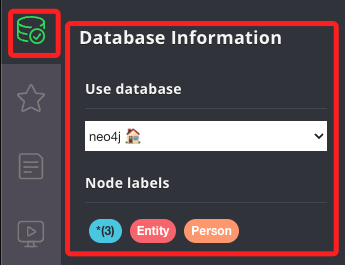
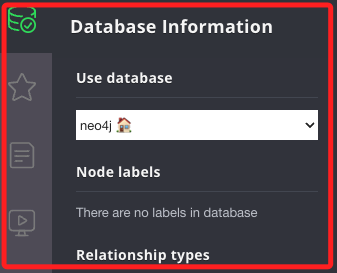
sss

diff --git a/D21_neo4j/04_knowledge-graph/01_教程/README.md b/D21_neo4j/04_knowledge-graph/01_教程/README.md
@@ -86,9 +86,77 @@ _先完成以下的套件安裝及環境設置_
 
 <br>
 
-11. 點擊左上角的資料庫圖標展開，就會看到一樣的內容了。
+11. 點擊左上角的資料庫圖標展開，目前尚無任何資料，只會看到相同的資料庫名稱。
 
       ![](images/img_07.png)
+
+<br>
+
+## 模擬寫入與讀取數據
+
+1. 首先，在專案的根目錄中建立一個 `test.ipynb` 檔案；接著在編輯模擬數據的腳本之前，要先建立運行這個專案的虛擬環境，這裡將示範在 `.ipynb` 檔案環境中建立虛擬環境，當然，使用 `.py` 檔也可以，只是開始的方式略有不同，但在開始之前有一件事非常重要，就是要將 `工作區` 切換到專案的根目錄中，_切記要切換到專案的根目錄中_ ，非常重要，所以先在腳本點擊右鍵，然後點擊 `開啟終端機`，下圖是因為設定關係所以會開啟外部終端機。
+
+   ![](images/img_19.png)
+
+<br>
+
+2. 接著在終端機中執行以下指令開啟 VSCode。
+
+   ![](images/img_20.png)
+
+<br>
+
+3. 在腳本中先點擊右上角。
+
+   ![](images/img_12.png)
+
+<br>
+
+4. 選取 `Python 環境`。
+
+   ![](images/img_14.png)
+
+<br>
+
+5. 假如已經有核心，則點擊 `選取其他核心`。
+
+   ![](images/img_13.png)
+
+<br>
+
+6. 建立 Python 環境。
+
+   ![](images/img_15.png)
+
+<br>
+
+7. 選取 `在目前的工作區中建立 Venv 虛擬環境`，這就是為何要切換工作區的原因，VSCode 預設會將虛擬環境建立在當前的工作區中。
+
+   ![](images/img_16.png)
+
+<br>
+
+8. 使用 `Python 3.10.11`。
+
+   ![](images/img_17.png)
+
+<br>
+
+9. 雖然此處已有一個 `requirements.txt`，可以不用選取，之後另行安裝即可，點擊 `確認` 繼續。
+
+   ![](images/img_18.png)
+
+<br>
+
+10. 完成時可見右上角已經是核心的名稱與版本號。
+
+   ![](images/img_21.png)
+
+<br>
+
+11. 在專案根目錄中也會顯示虛擬環境安裝的資料夾。
+
+   ![](images/img_22.png)
 
 <br>
 
